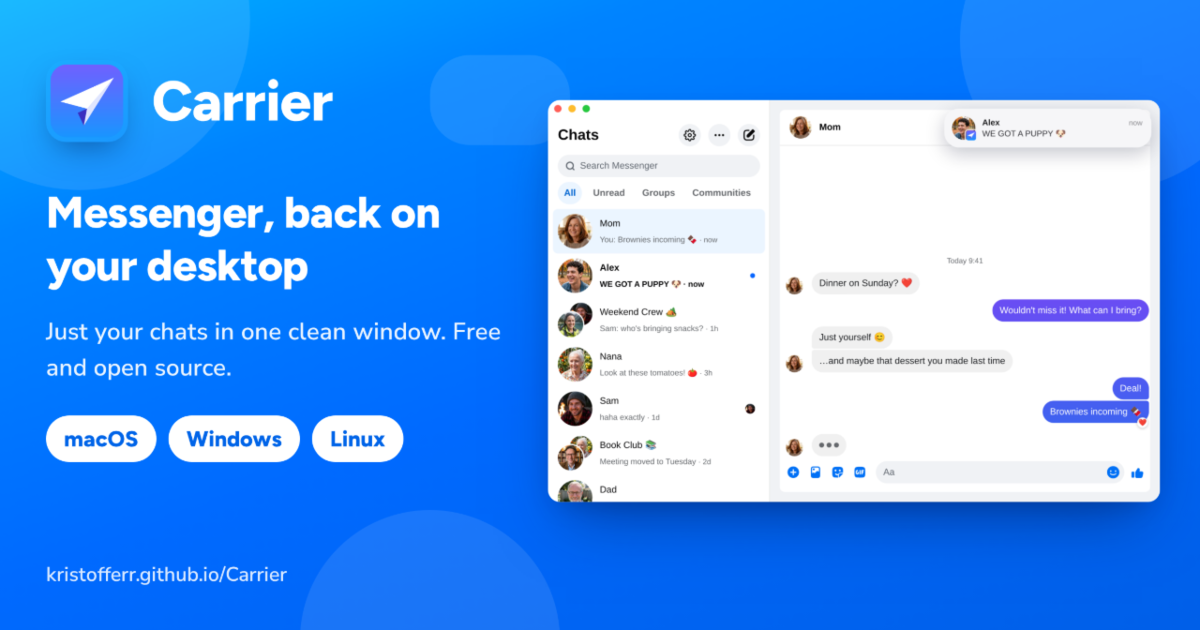
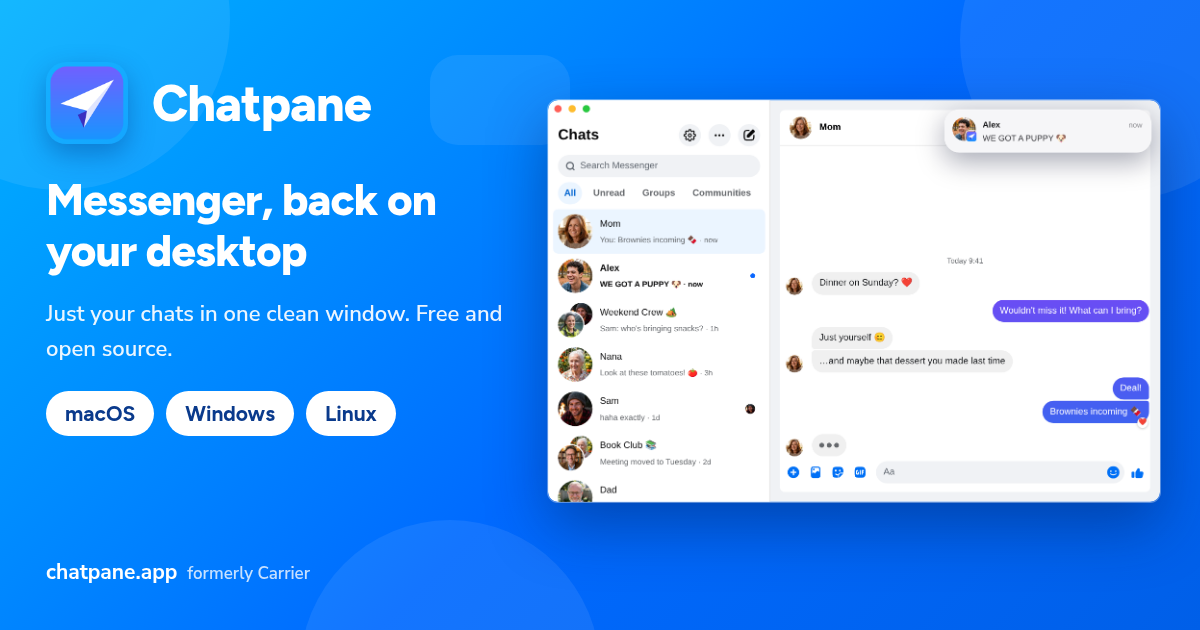
docs(site): Chatpane screenshots and link preview image

diff --git a/docs/caprine-alternative/index.html b/docs/caprine-alternative/index.html
@@ -156,7 +156,7 @@
       <p>On top of that, Chatpane has notifications you can reply to, react to or mute; right-click menus for messages and conversations; exporting a conversation to HTML or JSON; and scheduled text messages.</p>
       <p>To be upfront about the differences: Chatpane does not block Messenger's "Seen" indicator, which Caprine offered, and it does not support several accounts at once.</p>
       <figure class="shot">
-        <img src="../carrier-screenshot.png" alt="Chatpane for Messenger on macOS: the chat list on the left, a conversation on the right, and a new message notification in the corner" width="1271" height="835" loading="lazy">
+        <img src="../chatpane-screenshot.png" alt="Chatpane for Messenger on macOS: the chat list on the left, a conversation on the right, and a new message notification in the corner" width="1271" height="835" loading="lazy">
         <figcaption>Chatpane on macOS. It looks and works the same on Windows and Linux.</figcaption>
       </figure>
 

diff --git a/docs/messenger-for-linux/index.html b/docs/messenger-for-linux/index.html
@@ -154,8 +154,8 @@
         <li><strong>Privacy.</strong> Hide that you're typing, hide names and avatars for screen sharing, and block Facebook's analytics requests (on by default).</li>
       </ul>
       <figure class="shot">
-        <img src="../screenshots/carrier-linux-en-light.png" alt="Chatpane for Messenger on Linux with KDE Plasma: the chat list on the left and a conversation on the right" width="1021" height="712" loading="lazy">
-        <figcaption>Chatpane on KDE Plasma, shown under its former name, Carrier.</figcaption>
+        <img src="../screenshots/chatpane-linux-en-light.png" alt="Chatpane for Messenger on Linux: the chat list on the left and a conversation on the right" width="1021" height="744" loading="lazy">
+        <figcaption>Chatpane on Linux.</figcaption>
       </figure>
     </div>
   </section>

diff --git a/docs/messenger-for-windows/index.html b/docs/messenger-for-windows/index.html
@@ -150,7 +150,7 @@
         <li><strong>Your look.</strong> Light, dark or system appearance, nine built-in themes, an accent color and four app icons.</li>
       </ul>
       <figure class="shot">
-        <img src="windows-screenshot.png" alt="Chatpane for Messenger on Windows: the chat list on the left, a conversation on the right, and Chatpane's own window buttons at the top right" width="1292" height="849" loading="lazy">
+        <img src="chatpane-windows.png" alt="Chatpane for Messenger on Windows: the chat list on the left, a conversation on the right, and Chatpane's own window buttons at the top right" width="1291" height="848" loading="lazy">
         <figcaption>Chatpane on Windows, with no title bar and Facebook's surrounding pages hidden.</figcaption>
       </figure>
 

diff --git a/docs/messenger-for-mac/index.html b/docs/messenger-for-mac/index.html
@@ -151,7 +151,7 @@
         <li><strong>Your look.</strong> Light, dark or system appearance, nine built-in themes, an accent color and four app icons.</li>
       </ul>
       <figure class="shot">
-        <img src="../carrier-screenshot.png" alt="Chatpane for Messenger on macOS: the chat list on the left, a conversation on the right, and a new message notification in the corner" width="1271" height="835" loading="lazy">
+        <img src="../chatpane-screenshot.png" alt="Chatpane for Messenger on macOS: the chat list on the left, a conversation on the right, and a new message notification in the corner" width="1271" height="835" loading="lazy">
         <figcaption>Chatpane on macOS, with Facebook's surrounding pages hidden.</figcaption>
       </figure>
 
